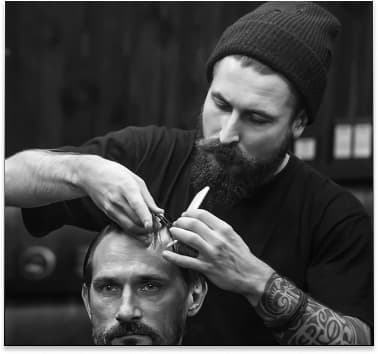
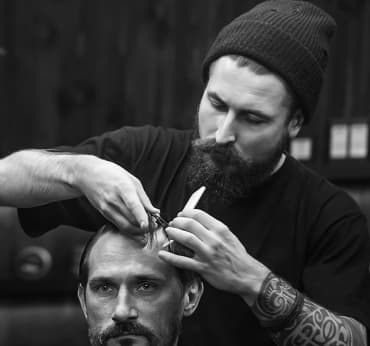
Оптимизировано изображение

diff --git a/src/partials/workers.html b/src/partials/workers.html
@@ -16,45 +16,54 @@
         <h3 class="workers-subtitle">John Smith</h3>
         <p class="workers-text">Extreme Barber</p>
         <ul class="workers-socials list">
-          <li class="workers-socials item">
+          <li class="workers-socials">
             <a
               href="https://www.instagram.com/"
               aria-label="Ссылка на Instagram"
               class="link"
             >
               <svg class="social-icon" width="20" height="20">
-                <use href=""></use>
+                <use
+                  href="./images/workers/sprite-workers.svg#icon-instagram"
+                ></use>
               </svg>
             </a>
           </li>
-          <li class="workers-socials item">
+          <li class="workers-socials">
             <a
               href="https://www.twitter.com/"
               aria-label="Ссылка на Twitter"
               class="link"
             >
               <svg class="social-icon" width="20" height="20">
-                <use href=""></use>
+                <use
+                  href="./images/workers/sprite-workers.svg#icon-twitter"
+                ></use>
               </svg>
             </a>
           </li>
-          <li class="workers-socials item">
+          <li class="workers-socials">
             <a
               href="https://www.facebook.com/"
               aria-label="Ссылка на Facebook"
               class="link"
               ><svg class="social-icon" width="20" height="20">
-                <use href=""></use>
+                <use
+                  href="./images/workers/sprite-workers.svg#icon-facebook"
+                ></use>
               </svg>
             </a>
           </li>
-          <li class="workers-socials item">
+          <li class="workers-socials">
             <a
               href="https://www.linkedin.com/"
               aria-label="Ссылка на LinkedIn"
               class="link"
-              ><svg class="social-icon" width="20" height="20">
-                <use href=""></use>
+            >
+              <svg class="social-icon" width="20" height="20">
+                <use
+                  href="./images/workers/sprite-workers.svg#icon-linkedin"
+                ></use>
               </svg>
             </a>
           </li>
@@ -73,46 +82,54 @@
         <h3 class="workers-name">Michele Doe</h3>
         <p class="workers-text">Extreme Barber</p>
         <ul class="workers-socials list">
-          <li class="workers-socials item">
+          <li class="workers-socials">
             <a
               href="https://www.instagram.com/"
               aria-label="Ссылка на Instagram"
               class="link"
             >
               <svg class="social-icon" width="20" height="20">
-                <use></use>
+                <use
+                  href="./images/workers/sprite-workers.svg#icon-instagram"
+                ></use>
               </svg>
             </a>
           </li>
-          <li class="workers-socials item">
+          <li class="workers-socials">
             <a
               href="https://www.twitter.com/"
               aria-label="Ссылка на Twitter"
               class="link"
             >
               <svg class="social-icon" width="20" height="20">
-                <use></use>
+                <use
+                  href="./images/workers/sprite-workers.svg#icon-twitter"
+                ></use>
               </svg>
             </a>
           </li>
-          <li class="workers-socials item">
+          <li class="workers-socials">
             <a
               href="https://www.facebook.com/"
               aria-label="Ссылка на Facebook"
               class="link"
               ><svg class="social-icon" width="20" height="20">
-                <use></use>
+                <use
+                  href="./images/workers/sprite-workers.svg#icon-facebook"
+                ></use>
               </svg>
             </a>
           </li>
-          <li class="workers-socials item">
+          <li class="workers-socials">
             <a
               href="https://www.linkedin.com/"
               aria-label="Ссылка на LinkedIn"
               class="link"
             >
               <svg class="social-icon" width="20" height="20">
-                <use></use>
+                <use
+                  href="./images/workers/sprite-workers.svg#icon-linkedin"
+                ></use>
               </svg>
             </a>
           </li>
@@ -131,45 +148,54 @@
         <h3 class="workers-name">Alan Black</h3>
         <p class="workers-text">Extreme Barber</p>
         <ul class="workers-socials list">
-          <li class="workers-socials item">
+          <li class="workers-socials">
             <a
               href="https://www.instagram.com/"
               aria-label="Ссылка на Instagram"
               class="link"
             >
               <svg class="social-icon" width="20" height="20">
-                <use></use>
+                <use
+                  href="./images/workers/sprite-workers.svg#icon-instagram"
+                ></use>
               </svg>
             </a>
           </li>
-          <li class="workers-socials item">
+          <li class="workers-socials">
             <a
               href="https://www.twitter.com/"
               aria-label="Ссылка на Twitter"
               class="link"
             >
               <svg class="social-icon" width="20" height="20">
-                <use></use>
+                <use
+                  href="./images/workers/sprite-workers.svg#icon-twitter"
+                ></use>
               </svg>
             </a>
           </li>
-          <li class="workers-socials item">
+          <li class="workers-socials">
             <a
               href="https://www.facebook.com/"
               aria-label="Ссылка на Facebook"
               class="link"
               ><svg class="social-icon" width="20" height="20">
-                <use></use>
+                <use
+                  href="./images/workers/sprite-workers.svg#icon-facebook"
+                ></use>
               </svg>
             </a>
           </li>
-          <li class="workers-socials item">
+          <li class="workers-socials">
             <a
               href="https://www.linkedin.com/"
               aria-label="Ссылка на LinkedIn"
               class="link"
-              ><svg class="social-icon" width="20" height="20">
-                <use></use>
+            >
+              <svg class="social-icon" width="20" height="20">
+                <use
+                  href="./images/workers/sprite-workers.svg#icon-linkedin"
+                ></use>
               </svg>
             </a>
           </li>

diff --git a/src/index.html b/src/index.html
@@ -11,9 +11,18 @@
   </head>
   <body>
     <!-- Так добавляются фрагменты в главные HTML-файлы страниц. -->
+
     <include src="./partials/header.html"></include>
-    <include src="./partials/workers.html"></include>
+
     <include src="./partials/hero.html"></include>
+    <include src="./partials/workers.html"></include>
+    <div class="overlay">
+      <include src="./partials/header.html"></include>
+      <include src="./partials/hero.html"></include>
+    </div>
+
+    <include src="./partials/workers.html"></include>
+
     <include src="./partials/footer-address.html"></include>
     <!-- Скрипт идёт последним в разметке. В нём уже подключен главный SASS-файл. -->
     <script src="./index.js"></script>

diff --git a/src/partials/hero.html b/src/partials/hero.html
@@ -1,4 +1,4 @@
-<section class="hero overlay">
+<section class="hero">
     <div class="container hero-item">
         <p class="hero-name">A hair salon for men in Kyiv</p>
         <h1 class="hero-title">BarberShop</h1>

diff --git a/src/sass/_header.scss b/src/sass/_header.scss
@@ -13,7 +13,7 @@
   padding: 40px 31px;
   margin-left: auto;
   margin-right: auto;
-  background-color: #000000;
+  // background-color: #000000;
 }
 
 .menu-header {
